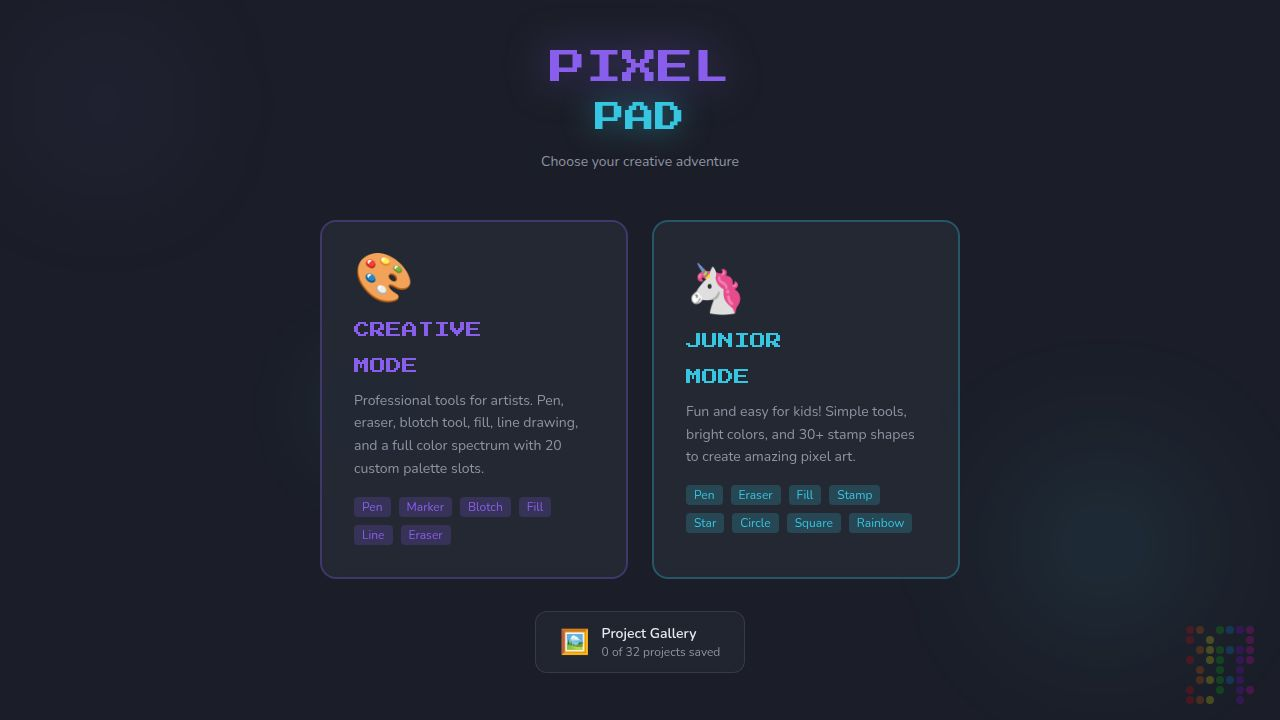
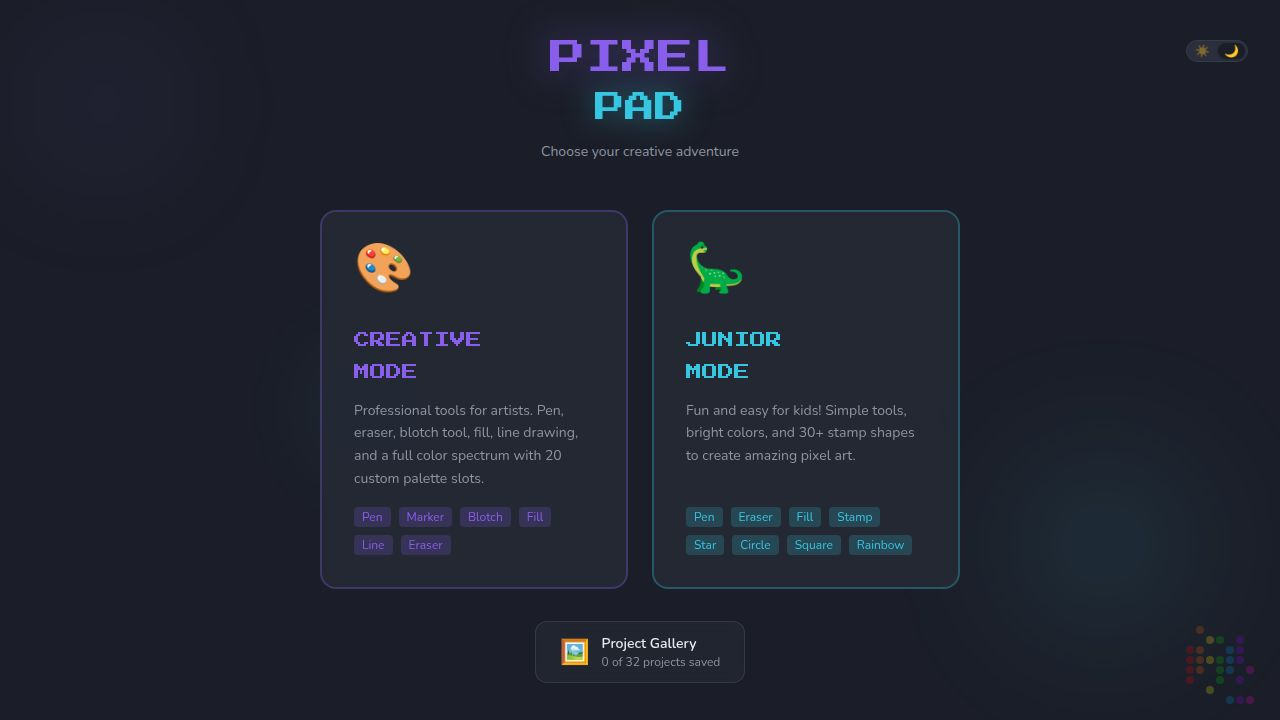
Add theme switching and fix dark mode in Junior Mode
Adds a theme toggle to the main menu and corrects hardcoded colors in Junior Mode that caused display issues in light mode.

Replit-Commit-Author: Agent
Replit-Commit-Session-Id: 6e7a2259-8e21-4915-8292-8648bf8f8818
Replit-Commit-Checkpoint-Type: full_checkpoint
Replit-Commit-Event-Id: c54ed6af-fdd1-47ac-b5ba-af7e36d54095
Replit-Commit-Screenshot-Url: https://storage.googleapis.com/screenshot-production-us-central1/43221ddb-5690-495f-be43-87b5eb92cb11/6e7a2259-8e21-4915-8292-8648bf8f8818/T192m0c
Replit-Helium-Checkpoint-Created: true

diff --git a/artifacts/pixel-art-creator/src/pages/MainMenu.tsx b/artifacts/pixel-art-creator/src/pages/MainMenu.tsx
@@ -1,4 +1,5 @@
-import { useState } from "react";
+import { useState, useEffect } from "react";
+import { cn } from "@/lib/utils";
 import { loadProjects } from "@/lib/storage";
 
 interface MainMenuProps {
@@ -9,6 +10,12 @@ interface MainMenuProps {
 export default function MainMenu({ onSelectMode, onOpenGallery }: MainMenuProps) {
   const projects = loadProjects();
   const [hoveredCard, setHoveredCard] = useState<string | null>(null);
+  const [darkMode, setDarkMode] = useState(() => localStorage.getItem('pixelpad-theme') !== 'light');
+
+  useEffect(() => {
+    document.documentElement.classList.toggle('light', !darkMode);
+    localStorage.setItem('pixelpad-theme', darkMode ? 'dark' : 'light');
+  }, [darkMode]);
 
   return (
     <div className="min-h-screen flex flex-col items-center justify-center bg-background relative overflow-hidden">
@@ -19,8 +26,21 @@ export default function MainMenu({ onSelectMode, onOpenGallery }: MainMenuProps)
         <div className="absolute top-1/2 left-1/4 w-24 h-24 rounded-full bg-chart-2/10 blur-2xl" />
       </div>
 
-      {/* Logo — w-full + text-center uses the browser's native centering so all three lines share the same axis */}
-      <div className="mb-12 w-full text-center relative z-10">
+      {/* Logo — w-full so the absolute toggle reaches the right edge of the viewport */}
+      <div className="relative mb-12 w-full text-center z-10">
+        {/* Theme toggle — top-0 aligns its top with the top of PIXEL text; right-8 places it at the viewport's right edge */}
+        <div className="absolute right-8 top-0">
+          <button
+            onClick={() => setDarkMode(d => !d)}
+            className="inline-flex items-center rounded-full bg-muted border border-border p-0.5 gap-0.5 transition-colors hover:bg-muted/80"
+            title={darkMode ? 'Switch to light mode' : 'Switch to dark mode'}
+            data-testid="btn-menu-theme-toggle"
+          >
+            <span className={cn("text-xs px-1.5 py-0.5 rounded-full transition-all leading-none select-none", !darkMode ? "bg-background shadow-sm" : "opacity-40")}>☀</span>
+            <span className={cn("text-xs px-1.5 py-0.5 rounded-full transition-all leading-none select-none", darkMode ? "bg-background shadow-sm" : "opacity-40")}>🌙</span>
+          </button>
+        </div>
+
         <div className="font-pixel text-2xl md:text-4xl text-primary mb-3 drop-shadow-[0_0_20px_hsl(var(--primary)/0.5)]">
           PIXEL
         </div>
@@ -44,12 +64,9 @@ export default function MainMenu({ onSelectMode, onOpenGallery }: MainMenuProps)
         >
           <div className="absolute inset-0 bg-gradient-to-br from-primary/10 to-transparent opacity-0 group-hover:opacity-100 transition-opacity" />
           <div className="relative z-10 flex flex-col flex-1">
-            {/* Fixed-height icon row — ensures emoji tops align regardless of glyph metrics */}
             <div className="h-16 flex items-start mb-4 leading-none text-5xl">🎨</div>
-            {/* Fixed-height title rows */}
             <div className="h-8 flex items-center font-pixel text-base text-primary">CREATIVE</div>
             <div className="h-8 flex items-center font-pixel text-base text-primary mb-3">MODE</div>
-            {/* Description grows to fill space, pushing tags to a consistent bottom */}
             <p className="text-sm text-muted-foreground leading-relaxed flex-1">
               Professional tools for artists. Pen, eraser, blotch tool, fill, line drawing, and a full color spectrum with 20 custom palette slots.
             </p>
@@ -71,9 +88,7 @@ export default function MainMenu({ onSelectMode, onOpenGallery }: MainMenuProps)
         >
           <div className="absolute inset-0 bg-gradient-to-br from-chart-2/10 to-transparent opacity-0 group-hover:opacity-100 transition-opacity" />
           <div className="relative z-10 flex flex-col flex-1">
-            {/* Same fixed-height icon row */}
             <div className="h-16 flex items-start mb-4 leading-none text-5xl">🦕</div>
-            {/* Same fixed-height title rows */}
             <div className="h-8 flex items-center font-pixel text-base text-chart-2">JUNIOR</div>
             <div className="h-8 flex items-center font-pixel text-base text-chart-2 mb-3">MODE</div>
             <p className="text-sm text-muted-foreground leading-relaxed flex-1">

diff --git a/artifacts/pixel-art-creator/src/pages/JuniorEditor.tsx b/artifacts/pixel-art-creator/src/pages/JuniorEditor.tsx
@@ -204,7 +204,7 @@ export default function JuniorEditor({ project, allProjects, onProjectsChange, o
           type="text"
           value={projectName}
           onChange={e => { setProjectName(e.target.value); setSaved(false); }}
-          className="flex-1 max-w-40 text-sm font-semibold bg-transparent border-b border-transparent hover:border-white/20 focus:border-primary outline-none px-1"
+          className="flex-1 max-w-40 text-sm font-semibold bg-transparent border-b border-transparent hover:border-foreground/20 focus:border-primary outline-none px-1"
           data-testid="input-junior-name"
         />
         <div className="flex items-center gap-1 ml-auto flex-wrap">
@@ -277,7 +277,7 @@ export default function JuniorEditor({ project, allProjects, onProjectsChange, o
                       key={i}
                       className={cn(
                         "w-9 h-9 rounded-xl border-4 transition-all hover:scale-110",
-                        selectedColorIndex === i ? "border-white scale-110 shadow-lg ring-2 ring-purple-400" : "border-transparent"
+                        selectedColorIndex === i ? "border-foreground scale-110 shadow-lg ring-2 ring-purple-400" : "border-transparent"
                       )}
                       style={{ backgroundColor: color }}
                       onClick={() => { setActiveColor(color); setSelectedColorIndex(i); }}
@@ -288,7 +288,7 @@ export default function JuniorEditor({ project, allProjects, onProjectsChange, o
                 {/* Color picker for editing the selected slot */}
                 <div className="flex items-center gap-2">
                   <span className="text-[10px] font-bold text-muted-foreground">Edit Color</span>
-                  <label className="relative w-9 h-9 flex items-center justify-center cursor-pointer rounded-xl hover:bg-white/10 transition-colors flex-shrink-0" title="Pick a color for the selected slot">
+                  <label className="relative w-9 h-9 flex items-center justify-center cursor-pointer rounded-xl hover:bg-muted/60 transition-colors flex-shrink-0" title="Pick a color for the selected slot">
                     <span className="text-2xl select-none pointer-events-none">🎨</span>
                     <input
                       type="color"
@@ -348,7 +348,7 @@ export default function JuniorEditor({ project, allProjects, onProjectsChange, o
         <div className="flex-1 relative overflow-hidden">
           <div
             ref={canvasAreaRef}
-            className="absolute inset-0 bg-gradient-to-br from-blue-50/10 to-purple-50/10"
+            className="absolute inset-0 bg-gradient-to-br from-primary/5 to-accent/5"
             style={{ overflow: zoom >= 2 ? 'scroll' : 'auto' }}
           >
           <div style={(() => {
